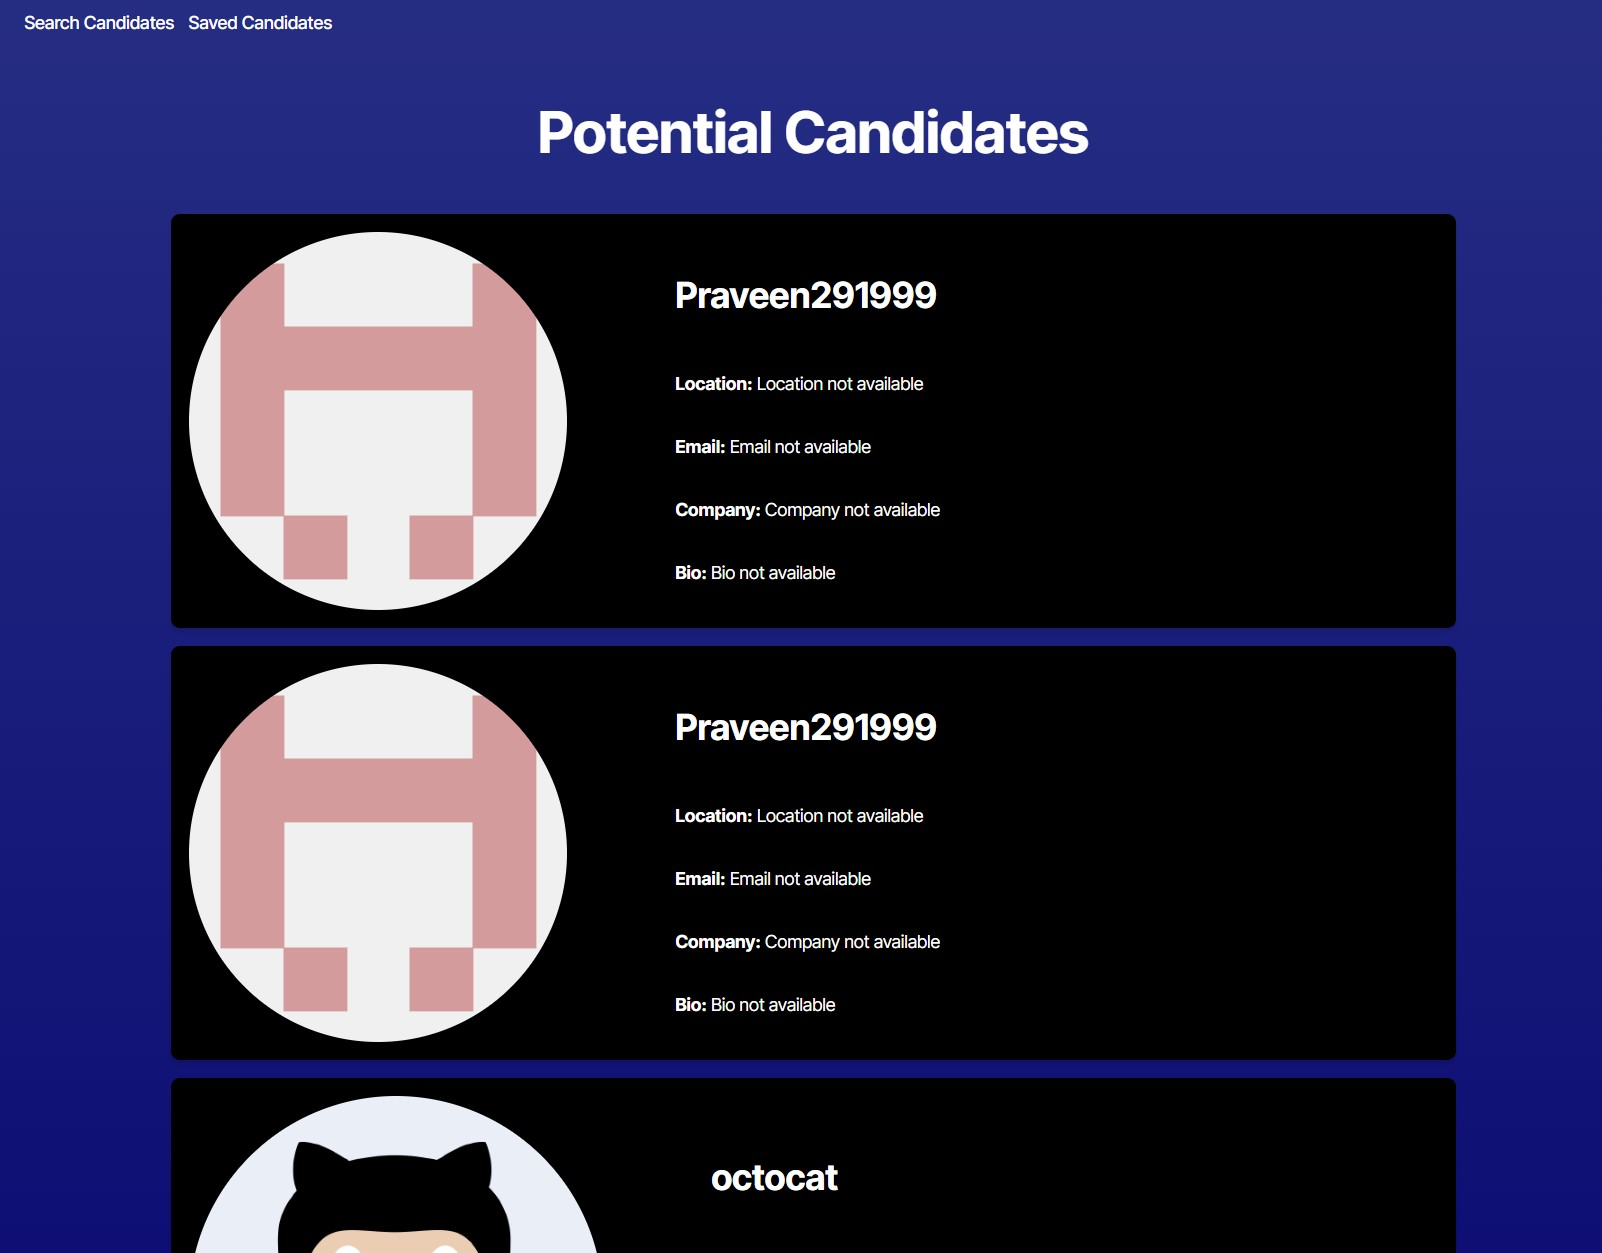
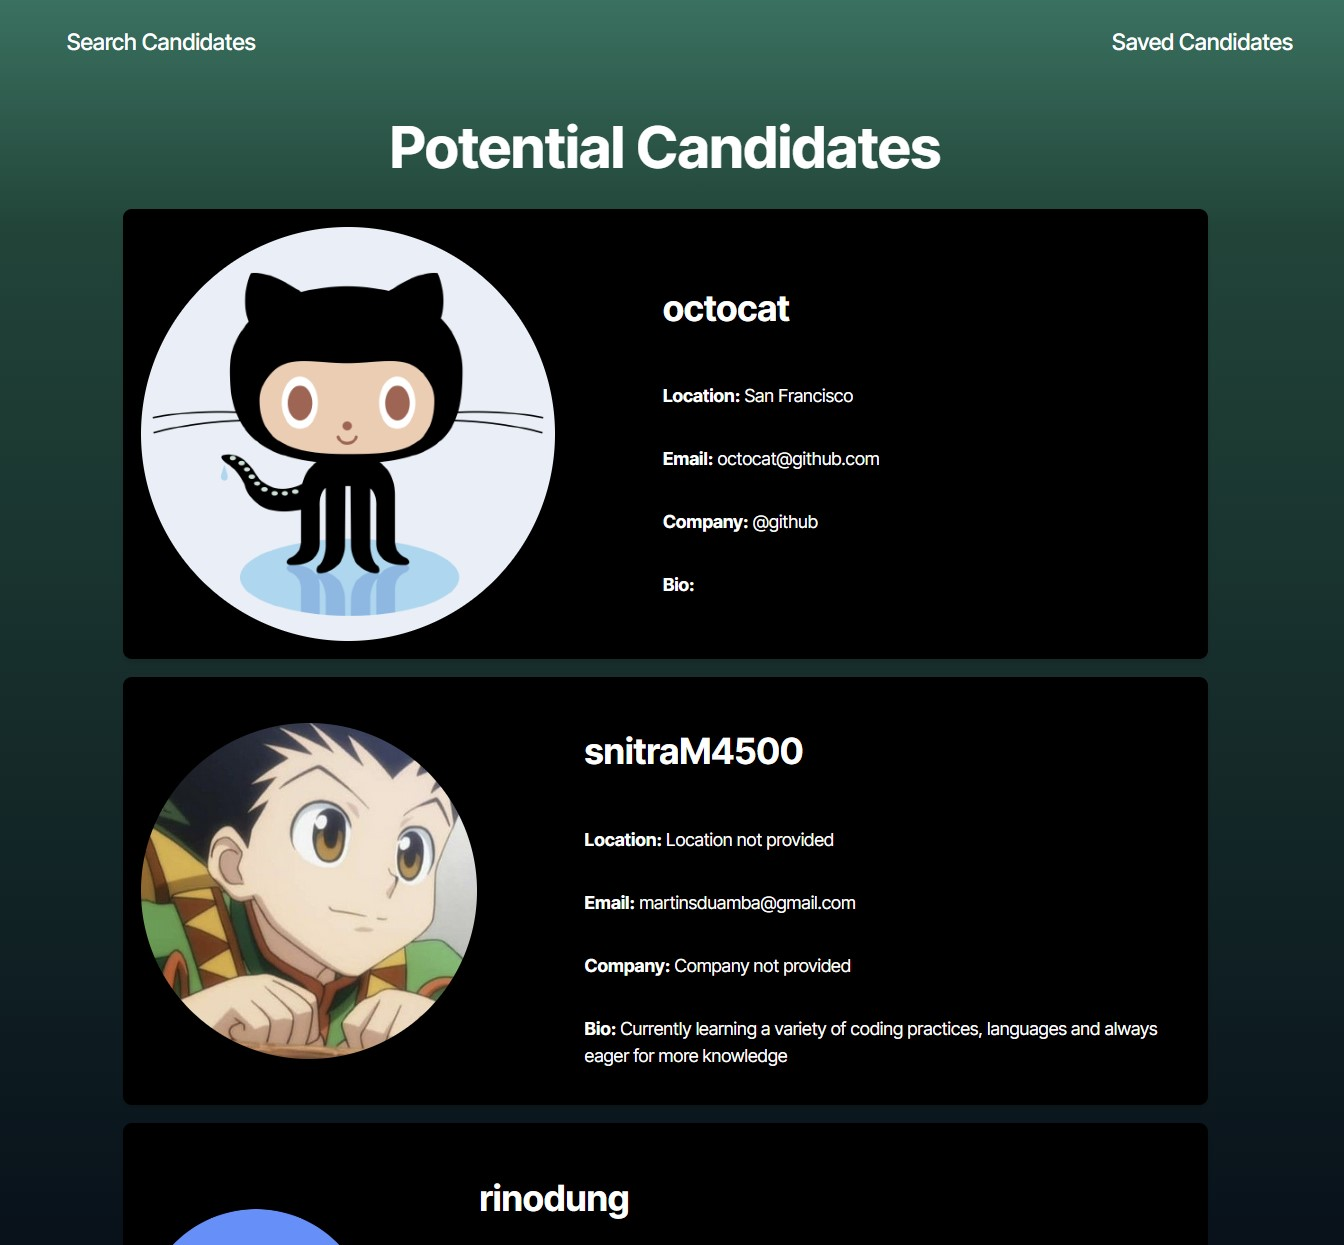
finished advanced search, fixed buttons, completed styles.

diff --git a/src/pages/CandidateSearch.tsx b/src/pages/CandidateSearch.tsx
@@ -1,10 +1,11 @@
 // src/components/CandidateSearch.tsx
-import { useState } from 'react';
+import { useEffect, useState } from 'react';
 import { searchGithub, searchGithubUser } from '../api/API';
 import advancedSearch from './advancedSearch';
 import type Candidate from '../interfaces/Candidate.interface';
 
 const CandidateSearch = () => {
+  //wanted default candidate to be octocat, probably a better way to do this
   const [currentCandidate, setCurrentCandidate] = useState<Candidate>({
     id: 583231,
     login: 'octocat',
@@ -14,14 +15,21 @@ const CandidateSearch = () => {
     company: '@github',
     bio: '',
   });
-  const [loadingStatus, setLoadingStatus] = useState<string>('Ready to search');
+
+  const [loadingStatus, setLoadingStatus] = useState<string>('Ready! Click a circle to search');
 
   const fetchCandidate = async () => {
     setLoadingStatus('Searching...');
     try {
-      const randomUsers = await searchGithub();
-      const randomUserLogin = randomUsers[0].login;
-      const userData = await searchGithubUser(randomUserLogin);
+      const randomUsers = await searchGithub(); // fetch random user(s) from the API
+      // console.log('randomUsers:', randomUsers);
+      // so... I see that the above line returns an array of users (30)
+      // But I felt that looping over the array 30 times to get a single user is not efficient
+      // So my solution is just to use the first user, and recall fetchCandidate each button click
+      const randomUserLogin = randomUsers[0].login; // get the login of the random user
+      // console.log('randomUserLogin:', randomUserLogin);
+      const userData = await searchGithubUser(randomUserLogin); // feed login to new API function
+      // console.log('userData:', userData);
 
       if (userData) {
         const formattedCandidate: Candidate = {
@@ -33,54 +41,66 @@ const CandidateSearch = () => {
           company: userData.company || 'Company not provided',
           bio: userData.bio || 'Bio not provided',
         };
+        // set state of candidate and search
+        console.log('normalSearch successful');
+        
         setCurrentCandidate(formattedCandidate);
         setLoadingStatus('User found');
-      } else {
-        setLoadingStatus('No suitable user found');
+      } 
+      else {
+        setLoadingStatus('No suitable user found. Try again.');
       }
-    } catch (error) {
+    } 
+    catch (error) {
       console.error('Error fetching candidate:', error);
       setLoadingStatus('Error fetching user');
     }
   };
 
+  //added functionality of searching for users with email
   const handleAdvancedSearch = async () => {
     setLoadingStatus('Searching...');
     const candidate = await advancedSearch();
     if (candidate) {
+      console.log('advancedSearch successful');
       setCurrentCandidate(candidate);
       setLoadingStatus('User found');
-    } else {
+    } 
+    else {
       setLoadingStatus('No suitable user found');
     }
   };
 
+  //so this would usually call the function on load. but I have default user set above.
+  useEffect(() => { 
+    // fetchCandidate();
+  }, []);
+
+  // save function
   const saveCandidate = () => {
-    let savedCandidates: Candidate[] = [];
-    const storedCandidates = localStorage.getItem('savedCandidates');
+    let savedCandidates: Candidate[] = []; //initialize empty array
+    const storedCandidates = localStorage.getItem('savedCandidates'); // pull current storage
 
     if (storedCandidates) {
       try {
-        savedCandidates = JSON.parse(storedCandidates);
-      } catch (error) {
+        savedCandidates = JSON.parse(storedCandidates); // allocate storage to array
+      } 
+      catch (error) {
         console.error('Error parsing local storage data:', error);
         savedCandidates = [];
       }
     }
 
-    savedCandidates.push(currentCandidate);
-
-    try {
-      localStorage.setItem('savedCandidates', JSON.stringify(savedCandidates));
-      console.log('Candidate saved successfully:', currentCandidate);
-    } catch (error) {
-      console.error('Error saving to local storage:', error);
-    }
+    savedCandidates.push(currentCandidate); // add current candidate to array
+    localStorage.setItem('savedCandidates', JSON.stringify(savedCandidates)); // format and save
+    console.log('Candidate saved successfully:', currentCandidate);
+   
   };
 
   return (
-    <div>
-      <h1>Candidate Search</h1>
+    <div className='container'>
+      <h1>Github User Search</h1>
+      <div className='loading'>{loadingStatus}</div>
       <div>
         <img
           src={currentCandidate.avatar_url}
@@ -93,21 +113,22 @@ const CandidateSearch = () => {
         <p>Company: {currentCandidate.company}</p>
         <p>Bio: {currentCandidate.bio}</p>
       </div>
+      {/* buttons */}
       <div className="button-container">
         <div>
-          <button onClick={fetchCandidate} className="button fetch">-</button>
-          <div className="label">Search Users</div>
+          <button onClick={fetchCandidate} className="button fetch">Search Users</button>
+          <p className="label">Any User</p>
         </div>
         <div>
-          <button onClick={handleAdvancedSearch} className="button advanced">*</button>
-          <div className="label">Advanced Search</div>
+          <button onClick={handleAdvancedSearch} className="button advanced">Advanced Search</button>
+          <p className="label">User with Email</p>
         </div>
         <div>
-          <button onClick={saveCandidate} className="button save">+</button>
-          <div className="label">Save User</div>
+          <button onClick={saveCandidate} className="button save">Save User</button>
+          <p className="label">Save to Storage</p>
         </div>
       </div>
-      <div>{loadingStatus}</div>
+      
     </div>
   );
 };

diff --git a/src/index.css b/src/index.css
@@ -26,8 +26,8 @@ a:hover {
 body {
   background: linear-gradient(
     180deg,
-    rgb(32, 44, 136) 0%,
-    rgba(9, 9, 121, 1) 15%,
+    rgb(6, 118, 95) 0%,
+    rgb(5, 71, 56) 15%,
     rgba(0, 2, 18, 1) 100%
   );
   background-size: cover;
@@ -39,10 +39,12 @@ body {
   min-height: 100vh;
 }
 
-/* h1 {
+h1 {
   font-size: 3.2em;
   line-height: 1.1;
-} */
+  margin: 0.5em 0;
+  /* padding: 0.5em; */
+}
 
 /* button {
   border-radius: 8px;
@@ -95,17 +97,19 @@ tbody tr:nth-child(odd) {
   background-color: #333333;
 }
 
-.nav {
+.navBar {
   display: flex;
-  justify-content: flex-start;
+  justify-content: space-between;
+  width: 100%;
   padding: 1em 2em;
 }
 
 .nav-item {
-  padding: 0 0.5rem;
+  padding: 0 5rem; 
+  margin-right: 2rem; /* right link offset more for some reason - fixed*/ 
   list-style: none;
-  /* added to match the example (side by side) */
-  display: inline-block;
+  font-size: 126%;
+  /* display: inline-block; */
 }
 
 .nav-link {
@@ -141,6 +145,25 @@ p {
 }
 ul {
   list-style-type: none;
+}
+
+.container {
+  display: flex;
+  flex-direction: column;
+  align-items: center;
+  justify-content: center;
+  width: 100%;
+  /* height: 100vh; */
+}
+
+.loading {
+  font-size: 2em;
+  font-weight: 700;
+  color: white;
+  background-color: green;
+  width: 500px;
+  text-align: center;
+  margin-bottom: 20px;
 }
 /* SAVED CANDIDATE STYLES  */
 .grid-container {
@@ -181,21 +204,24 @@ ul {
 /* BUTTONS  */
 .button-container {
   display: flex;
+  /* flex-direction: column; */
   justify-content: space-around; /* Space buttons evenly */
   align-items: center;
   margin: 40px 0; /* Optional margin for spacing */
+  width: 1200px; /* Sets the width of the button container */
 }
 
 .button {
   border: none;
   border-radius: 50%;
-  width: 150px;
+  width: 200px;
+  height: 200px;
   color: white;
-  font-size: 100px; /* Bigger + and - */
-  font-weight: bold;
-  display: flex;
+  font-size: 25px; 
+  /* font-weight: bold; */
+  /* display: flex;
   align-items: center;
-  justify-content: center;
+  justify-content: center; */
   margin-bottom: 10px;
 }
 
@@ -207,8 +233,12 @@ ul {
   background-color: green;
 }
 
+.button.advanced {
+  background-color: blue;
+}
+
 .label {
-  font-size: 28px;
+  /* font-size: 28px; */
   text-align: center;
-  color: white;
+  /* color: white; */
 }

diff --git a/src/pages/advancedSearch.tsx b/src/pages/advancedSearch.tsx
@@ -3,18 +3,18 @@ import { searchGithub, searchGithubUser } from '../api/API';
 import type Candidate from '../interfaces/Candidate.interface';
 
 const advancedSearch = async (): Promise<Candidate | null> => {
-  try {
-    let validUserFound = false;
-    let attempts = 0;
-    const maxAttempts = 10; // Limit the number of retries
 
-    while (!validUserFound && attempts < maxAttempts) {
+  try {
+    let validUser = false;
+
+    while (!validUser) {
       const randomUsers = await searchGithub(); // fetch random user(s) from the API
       const randomUserLogin = randomUsers[0].login; // get the login of the random user
-      const userData = await searchGithubUser(randomUserLogin);  // Feed login to new API function
+      const userData = await searchGithubUser(randomUserLogin); // Feed login to new API function
 
       if (userData && userData.email) {
-        validUserFound = true; // We found a user with an email
+        validUser = true; // We found a user with an email
+
         const formattedCandidate: Candidate = {
           id: userData.id,
           login: userData.login,
@@ -25,18 +25,16 @@ const advancedSearch = async (): Promise<Candidate | null> => {
           bio: userData.bio || 'Bio not provided',
         };
         return formattedCandidate;
-      } else {
-        attempts++;
-        if (attempts >= maxAttempts) {
-          return null; // No suitable user found
-        }
+      } 
+      else {
+        console.log(`No email found. Retrying...`);
       }
     }
   } catch (error) {
     console.error('Error fetching candidate:', error);
-    return null;
   }
-    return null;
+  return null;
 };
+
 
 export default advancedSearch;

diff --git a/src/api/API.tsx b/src/api/API.tsx
@@ -10,12 +10,12 @@ const searchGithub = async () => {
         },
       }
     );
-    console.log('Response:', response);
+    // console.log('Response:', response);
     const data = await response.json();
     if (!response.ok) {
       throw new Error('invalid API response, check the network tab');
     }
-    console.log('Data:', data);
+    // console.log('Data:', data);
     return data;
   } catch (err) {
     console.log('an error occurred', err);

diff --git a/src/components/Nav.tsx b/src/components/Nav.tsx
@@ -4,7 +4,7 @@ const Nav = () => {
   // TODO: Add necessary code to display the navigation bar and link between the pages
   return (
     <nav>
-      <ul>
+      <ul className='navBar'>
         <li className='nav-item'>
           <Link className="nav-link" to="/">Search Candidates</Link> {/* Link to the search page */}
         </li>
